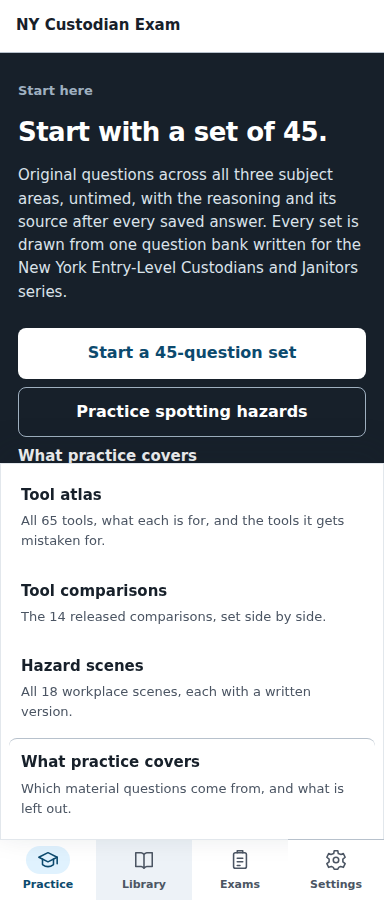
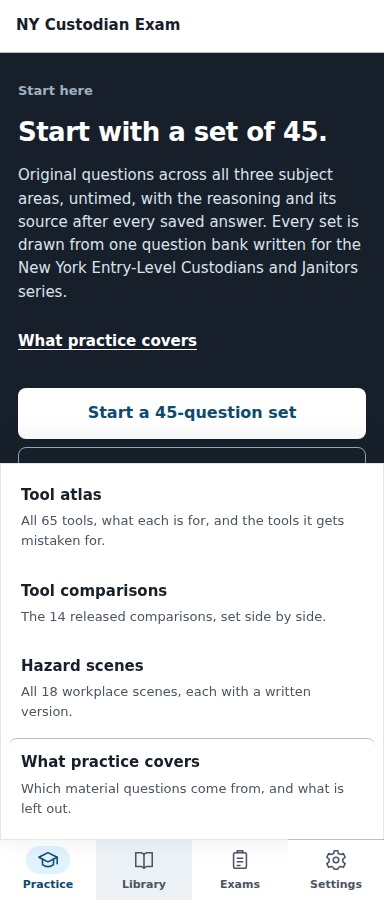
Reconcile responsive Practice structure and compact Review actions

Changed region(s): [[0.0312, 0.3422, 0.9688, 0.5289]]

diff --git a/apps/site/src/study/react/study-hub.tsx b/apps/site/src/study/react/study-hub.tsx
@@ -23,12 +23,22 @@ const ways = [
   { icon: "print", title: "Print a set", compactDescription: "Paper, with answer key", description: "Study on paper, with questions and their answer key on separate pages.", href: "/print/", action: "Open print center" }
 ] as const
 
+const compactQuery = "(max-width: 47.99rem)"
+const subscribeCompactLayout = (onChange: () => void) => {
+  const query = window.matchMedia(compactQuery)
+  query.addEventListener("change", onChange)
+  return () => query.removeEventListener("change", onChange)
+}
+const readCompactLayout = () => window.matchMedia(compactQuery).matches
+const serverCompactLayout = () => false
+
 export const StudyHub = ({ bootstrap, activityState, reviewController, onRetry }: {
   readonly bootstrap: StudyBootstrap
   readonly activityState: StudyActivityState
   readonly reviewController: ReviewController
   readonly onRetry: () => void
 }) => {
+  const compact = useSyncExternalStore(subscribeCompactLayout, readCompactLayout, serverCompactLayout)
   const review = useSyncExternalStore(reviewController.subscribe, reviewController.getSnapshot, reviewController.getHydrationSnapshot).state
   const historyState: StudyActivityState = activityState.tag === "ready" && (review.tag === "ready" || review.tag === "recoverable_error")
     ? { tag: "ready", activity: includeUnavailableReviews(activityState.activity, review.quarantined) }
@@ -50,8 +60,10 @@ export const StudyHub = ({ bootstrap, activityState, reviewController, onRetry }
     }
   }, [activityState.tag, review.tag])
   const firstPractice = bootstrap.firstPractice
+  const settingsLinks = <p className="study-settings-links"><a href="/settings/">Larger text and reduced motion</a>{compact ? null : <>{" · "}<a href="/offline/">Download for offline use</a></>}</p>
+  const coverageLink = !unavailable && !hasActivity ? <a className="study-coverage-link" href="#covers">What practice covers</a> : null
   const waysSection = (<section className="study-section" aria-labelledby="study-ways-heading">
-      <div className="section-header"><h2 id="study-ways-heading">Ways to practice</h2><p><a href="/settings/">Larger text and reduced motion</a>{" · "}<a href="/offline/">Download for offline use</a></p></div>
+      <div className="section-header"><h2 id="study-ways-heading">Ways to practice</h2>{compact ? null : settingsLinks}</div>
       <ul className="task-cards study-ways-grid">{ways.map((way, index) => <li className={`task-card${index === 0 ? " task-card-primary" : ""}`} key={way.href}>
         <a className="task-card-link" href={way.href} aria-labelledby={`study-way-${way.icon}`}>
           <StudyIcon kind={way.icon} /><h3 className="task-card-title" id={`study-way-${way.icon}`}>{way.title}</h3>
@@ -59,6 +71,7 @@ export const StudyHub = ({ bootstrap, activityState, reviewController, onRetry }
           <span className={`task-card-cta button ${index === 0 ? "button-primary" : "button-secondary"}`}>{way.action}</span>
         </a>
       </li>)}</ul>
+      {compact ? settingsLinks : null}
     </section>)
   const progressSection = (<section className="study-section" aria-labelledby="study-progress-heading">
       <div className="section-header"><h2 id="study-progress-heading">Saved activity</h2></div>
@@ -80,7 +93,13 @@ export const StudyHub = ({ bootstrap, activityState, reviewController, onRetry }
     </section>)
   const coverageSection = <section className="study-section" id="covers" aria-labelledby="study-coverage-heading">
     <div className="section-header"><h2 id="study-coverage-heading">What practice covers</h2></div>
-    <div className="study-coverage-grid">
+    {compact ? <article className="study-read-notice study-coverage-compact">
+      <h3>One bank of {bootstrap.questionCount}, the three announced areas</h3>
+      <p>Cleaning tools and their uses; tools for minor maintenance and repair; health and safety in custodial work. Choosing a set length changes how many questions you answer, never the bank they come from.</p>
+      <p>Reading an exam page does not select an exam or change your practice. Questions are original, with no secure or recalled test material. Saved activity keeps counts, not an official score.</p>
+      <p className="study-source-note"><a href="/exams/">Read the subject plans and their sources</a>. Your official announcement governs your exam.</p>
+      <a className="button button-secondary" href="/exams/">Compare with your announcement</a>
+    </article> : <div className="study-coverage-grid">
       <article className="study-read-notice"><h3>One question bank, the three announced areas</h3>
         <p>{bootstrap.questionCount} original questions for the New York Entry-Level Custodians and Janitors series. Choosing a set length changes how many you answer, never the bank they come from.</p>
         <ol className="study-coverage-areas">
@@ -94,7 +113,7 @@ export const StudyHub = ({ bootstrap, activityState, reviewController, onRetry }
         <li>It has no questions written for a single announcement, and no secure or recalled test material.</li>
         <li>Saved activity counts are records of your practice, never an official score or a prediction of one.</li>
       </ul><a className="button button-secondary" href="/exams/">Compare with your announcement</a></article>
-    </div>
+    </div>}
   </section>
   return <div className={`study-hub${hasActivity ? " study-returning" : " study-first-visit"}`}>
     <section className={`page-header study-hero${unavailable ? " study-hero-unavailable" : " page-header-prominent"}`} aria-labelledby="study-heading">
@@ -103,10 +122,11 @@ export const StudyHub = ({ bootstrap, activityState, reviewController, onRetry }
       <p>{unavailable ? "The study data on this device did not load. Try reading it again, or choose a practice set below. Your saved attempts have not been changed." : hasActivity
         ? `${activity.questionCount + activity.hazardCount} saved answers and scene responses are on this device. Open any saved answer again to reread its explanation.`
         : `Original questions across all three subject areas, untimed, with the reasoning and its source after every saved answer. Every set is drawn from one question bank written for the ${bootstrap.profileLabel} series.`}</p>
+      {compact ? coverageLink : null}
       <div className="question-controls">
         {unavailable ? <button className="button button-primary" type="button" onClick={onRetry}>Retry reading progress</button> : firstPractice === null ? <a className="button button-primary" href="#practice-sets">See available practice</a> : <a className="button button-primary" href={firstPractice.href}>{firstPractice.label}</a>}
-        {!unavailable && !hasActivity ? <a className="study-coverage-link" href="#covers">What practice covers</a> : null}
         <a className="button button-secondary" href={unavailable ? "#practice-sets" : hasActivity ? "/review/" : "/hazards/"}>{unavailable ? "Choose a practice set" : hasActivity ? "Open your review queue" : "Practice spotting hazards"}</a>
+        {compact ? null : coverageLink}
       </div>
       {unavailable ? null : <dl className="figure-strip">
         <div><dt>{hasActivity ? "Questions answered" : "Original questions"}</dt><dd>{hasActivity ? activity.questionCount : bootstrap.questionCount}</dd></div>
@@ -123,19 +143,15 @@ export const StudyHub = ({ bootstrap, activityState, reviewController, onRetry }
       {coverageSection}
       {waysSection}
     </> : <>
+      {compact ? null : coverageSection}
       {waysSection}
       {progressSection}
       <div className="study-activity-grid">
         {reviewSection}
         <ActivityHistory state={historyState} onRetry={onRetry} />
       </div>
-      {coverageSection}
+      {compact ? coverageSection : null}
     </>}
     <PracticeBuilder sources={bootstrap.reviewQueue.questions} />
-    <section className="study-section" aria-labelledby="study-exam-heading">
-      <div className="section-header"><h2 id="study-exam-heading">Does this match your exam?</h2></div>
-      <p>Compare the subjects in your official announcement with this site's entry-level study material. Higher-level series have different requirements.</p>
-      <a className="button button-secondary" href="/exams/">Read exam information</a>
-    </section>
   </div>
 }

diff --git a/apps/site/src/study-design.css b/apps/site/src/study-design.css
@@ -179,7 +179,7 @@
   }
 }
 @layer overrides {
-  .study-hero .study-coverage-link { order: 3; color: var(--color-surface); font-size: 0.9375rem; font-weight: 700; }
+  .study-hero .study-coverage-link { justify-self: start; min-block-size: var(--target-default); display: inline-flex; align-items: center; color: var(--color-surface); font-size: 0.9375rem; font-weight: 700; }
   .study-hero .figure-strip { grid-template-columns: repeat(4, minmax(0, 1fr)); }
   .review-page .study-hero .figure-strip { grid-template-columns: repeat(3, minmax(0, 1fr)); }
   @media (max-width: 47.99rem) {
@@ -191,9 +191,32 @@
 }
 
 @layer overrides {
-  @media (max-width: 40rem) {
+  @media (max-width: 47.99rem) {
+    .study-ways-grid .task-card-link { grid-template-rows: auto auto; align-content: start; gap: var(--space-1); padding: 0.875rem; }
+    .study-ways-grid .task-card-link > :is(svg, .task-card-description, .task-card-cta) { display: none; }
+    .study-ways-grid .task-card-title { font-size: var(--text-sm); }
+    .study-ways-grid .task-card-compact-summary { display: block; }
     .task-cards.study-ways-grid { grid-template-columns: repeat(2, minmax(0, 1fr)); gap: var(--space-2); }
     .study-first-visit .study-progress-rows :is(p, a) { display: none; }
     .study-first-visit .study-progress-rows strong { font-weight: var(--weight-normal); color: var(--color-text-muted); }
+  }
+}
+
+@layer overrides {
+  .study-settings-links { margin: 0; font-size: var(--text-xs); font-weight: var(--weight-bold); }
+  .study-quick-presets > summary { min-block-size: var(--target-default); padding-block: var(--space-3); cursor: pointer; color: var(--color-action); font-weight: var(--weight-bold); }
+  .study-quick-presets[open] > .section-header { margin-block: var(--space-4); }
+  .study-coverage-compact :is(h3, p) { font-size: var(--text-xs); }
+  .study-coverage-compact h3 { font-size: var(--text-sm); }
+  .study-coverage-compact > .button { justify-self: start; }
+}
+
+@layer overrides {
+  @media (max-width: 47.99rem) {
+    .review-page .study-hero .figure-strip { grid-template-columns: repeat(2, minmax(0, 1fr)); }
+    .review-page section[aria-labelledby="review-due-heading"] > .section-header > p { display: none; }
+    .review-page .review-item-card .question-controls { flex-direction: column; align-items: stretch; }
+    .review-page .review-finish-action { border: var(--border-thin) solid var(--color-border); border-radius: var(--radius-md); }
+    .review-page .review-confirmation-actions { display: grid; }
   }
 }

diff --git a/apps/site/scripts/generate-pages.tsx b/apps/site/scripts/generate-pages.tsx
@@ -1388,7 +1388,7 @@ const buildPages = ({
     body: `
   <main class="page-shell" id="main-content" tabindex="-1">
     <div data-study-hub><section class="page-header"><h1>Practice and activity</h1><p>Practice for the New York entry-level Custodians and Janitors series. Choose a question set or revisit your saved attempts.</p><div class="question-controls"><a class="button button-primary" href="#practice-sets">Choose a practice set</a><a class="button button-secondary" href="/review/">Open Review</a></div></section><section class="section-gap" id="covers" aria-labelledby="study-fallback-ways"><h2 id="study-fallback-ways">What practice covers</h2><p>One original question bank for the New York Entry-Level Custodians and Janitors series: cleaning tools, minor maintenance tools, and health and safety. Reading an exam page does not select an exam or change this bank.</p>${studyTaskCards}</section><p class="source-note">JavaScript and available browser storage are required to show progress saved on this device.</p></div>
-    <section class="section-gap" id="practice-sets"><div class="section-header"><h2>Choose a practice set</h2><p>Each set draws distinct questions with no repeats. These sizes and distributions are designed for this site.</p></div>
+    <details class="section-gap study-quick-presets" id="practice-sets"><summary>Quick preset sets</summary><div class="section-header"><h2>Choose a practice set</h2><p>Each set draws distinct questions with no repeats. These sizes and distributions are designed for this site.</p></div>
     <ul class="study-set-options" aria-label="Available whole-bank practice lengths">${catalog.practiceCapacity.advertisedSetLengths.map((length) => {
       const session = sessionByCapacity.get(`all:all:${length}`)
       return session === undefined
@@ -1402,7 +1402,7 @@ const buildPages = ({
         : `<td><a href="/practice/session/${session.id}/question/1/">Start ${length}</a></td>`
     }).join("")}</tr>`).join("")}</tbody></table></div></details>
     <p class="source-note"><strong>Scoring boundary:</strong> practice accuracy is not an official converted score or a pass prediction. Answers and their sourced explanations load only after each answer is submitted and saved on this device.</p>
-    </section>
+    </details>
   </main>
   <script id="study-bootstrap-data" type="application/json">${escapeJsonForHtml(studyBootstrap)}</script>
   <script type="module" src="/src/study/react/bootstrap.tsx"></script>`

diff --git a/apps/site/browser-tests/study-hub.pw.ts b/apps/site/browser-tests/study-hub.pw.ts
@@ -109,3 +109,31 @@ test("a generated practice answer appears in Study and can be durably finished i
   await expect(page.getByRole("heading", { name: "No review items are ready", exact: true })).toBeVisible()
   await expect(page.getByRole("region", { name: "Review history" }).getByRole("listitem")).toHaveCount(1)
 })
+
+
+test("Practice follows the responsive reading order and preserves quick presets without JavaScript", async ({ page, browser }) => {
+  await page.setViewportSize({ width: 700, height: 900 })
+  await page.goto("/practice/")
+  await expect(page.getByRole("heading", { name: "No saved activity yet", exact: true })).toBeVisible()
+  const sectionNames = () => page.locator(".study-hub > .study-section").evaluateAll(elements => elements.map(element => element.getAttribute("aria-labelledby")))
+  expect((await sectionNames()).indexOf("study-ways-heading")).toBeLessThan((await sectionNames()).indexOf("study-coverage-heading"))
+  const coverageLink = page.locator(".study-hero .study-coverage-link")
+  await coverageLink.focus()
+  await page.keyboard.press("Tab")
+  await expect(page.locator(".study-hero .button-primary")).toBeFocused()
+  const cards = page.locator(".study-ways-grid > li")
+  const first = await cards.nth(0).boundingBox()
+  const second = await cards.nth(1).boundingBox()
+  expect(first?.y).toBe(second?.y)
+  await page.setViewportSize({ width: 1248, height: 900 })
+  await expect.poll(async () => (await sectionNames()).indexOf("study-coverage-heading")).toBe(0)
+  await expect(page.locator("#covers")).toHaveCount(1)
+  const noScript = await browser.newContext({ javaScriptEnabled: false })
+  try {
+    const fallback = await noScript.newPage()
+    await fallback.goto("/practice/")
+    await fallback.getByText("Quick preset sets", { exact: true }).click()
+    await fallback.locator(".study-set-options").getByRole("link", { name: "Start 45", exact: true }).click()
+    await expect(fallback).toHaveURL(/\/practice\/session\/[^/]+\/question\/1\/$/)
+  } finally { await noScript.close() }
+})

diff --git a/design-review/2026-09-07/IMPLEMENTATION-REVIEW.md b/design-review/2026-09-07/IMPLEMENTATION-REVIEW.md
@@ -155,3 +155,40 @@ builder and detailed coverage. Compact hero coverage-link ordering, placement of
 settings/offline links, remaining coverage density, and the separate preset chooser
 still need final reconciliation. This update does not certify all integrated
 captures as visually complete.
+
+## Responsive Practice and compact Review reconciliation
+
+Reading the complete Study Hub prototype established an intentional width-specific
+order: first-visit desktop coverage precedes the activities; compact coverage
+follows recent activity. The previous shared ordering matched compact only.
+Practice now subscribes to the compact media query and renders the corresponding
+DOM order, including the hero coverage link and settings links. This keeps reading
+and keyboard order aligned with the visible layout, instead of reordering
+interactive content only with CSS. Compact coverage is a single card preserving
+subject scope, original-content limits, announcement independence, and source
+links. The repeated closing announcement section was removed because coverage
+already includes that destination.
+
+The functional builder remains visible. The legacy whole-bank preset links and
+capacity table remain in a native Quick preset sets disclosure with the same
+`#practice-sets` target, available without JavaScript. Compact activity-card rules
+now cover the entire compact range through 47.99rem, fixing the one-column gap
+between 640px and 768px.
+
+Review reference 21 uses two-column summary facts, no repeated paragraph above
+its filters, and vertically stacked primary/secondary actions. Applied that
+compact composition, including full-width confirmation actions. Finish review
+still opens explicit confirmation; reading an explanation never acknowledges it.
+The fuller unavailable-attempt rule and recovery actions are retained. Real
+fixture counts differ from the supplied five-item example.
+
+Validation: root build/artifact verification, site and browser typechecks pass.
+Twenty-one Practice/builder checks pass across Chromium, Firefox, and WebKit,
+including a new 700px-to-1248px reading-order/keyboard check and no-JavaScript
+preset navigation. Six Review tests pass across those browsers, covering exact
+receipt quarantine, confirmation focus, and unavailable feedback history. The
+24 integrated captures were refreshed without unexpected page errors. Inspected
+compact Practice hero/activity entry and Review's confirmation page against the
+accepted references. Final compact confirmation widths were then corrected and
+recaptured. Review's multi-item/unavailable inventory comparison and the remaining
+full-page families still need final visual verification.

diff --git a/design-review/2026-09-07/IMPLEMENTATION-STATUS.md b/design-review/2026-09-07/IMPLEMENTATION-STATUS.md
@@ -6,7 +6,7 @@ The active task is the complete handoff in `/mnt/models/dev/nycustodianexam/IMPL
 |---|---|---|
 | Shared navigation | `acd7a88`, 1248/384 captures, reflow/keyboard/no-JS/bottom-bar tests | 48 design-handoff checks now pass across Chromium/Firefox/WebKit; repeat only if later shell changes warrant it |
 | Home | First-slice comparison gallery and notes | Full-page and six-section 1248/384 comparison captured in home-final-audit; compact coverage hierarchy and subject links corrected; compact trust reduced to the reference’s three rows with current home-compact-audit evidence and three-browser reflow/axe passes; prototype heading sizing/wrapping restored with actual-font evidence; source/footer density and remaining platform line-break differences documented in IMPLEMENTATION-REVIEW.md |
-| Practice hub and Review | First-slice real-save/failure captures, durable review regression tests | First-visit section order, compact activity cards and saved rows reconciled; 24 integrated captures refreshed and 18 three-browser workflow checks pass; remaining hero/link placement, coverage/preset density and Review visual audit |
+| Practice hub and Review | First-slice real-save/failure captures, durable review regression tests | Responsive first-visit order, hero/settings links, compact coverage and preset disclosure reconciled; compact Review facts/actions reconciled; 24 captures refreshed, 21 Practice and 6 Review three-browser checks pass; multi-item/unavailable Review visual audit remains |
 | Simulation setup | SETUP-ATLAS-REVIEW.md, effective lengths/timing/format; no exam prerequisite | Final integrated capture/checks |
 | Practice/Hazard builder | PRACTICE-BUILDER-REVIEW.md and HAZARD-BUILDER-REVIEW.md: effective builders, custom navigation and exact saved-history receipts | Hazard page composition updated with desktop/compact/no-JS evidence; Practice composition/direct-link focus updated with desktop/compact captures and three-browser checks; Practice/Hazard summaries reconciled with desktop/compact evidence and 15 targeted browser passes; final integrated comparison remains; CROSS-BROWSER-WORKFLOWS.md records 27 three-browser builder/Review passes, including real offline save/feedback; WebKit emulation issue isolated with a minimal reproduction; custom import passes in Chromium |
 | Atlas catalog | Nine-family desktop/compact controls, all 65 images, eligibility/failure states | ATLAS-RECORD-REVIEW.md: sampled record/family reflow, readable missing-image fallback, all 65 records audited and reference-only capture; final catalog/cross-browser comparison remains |
